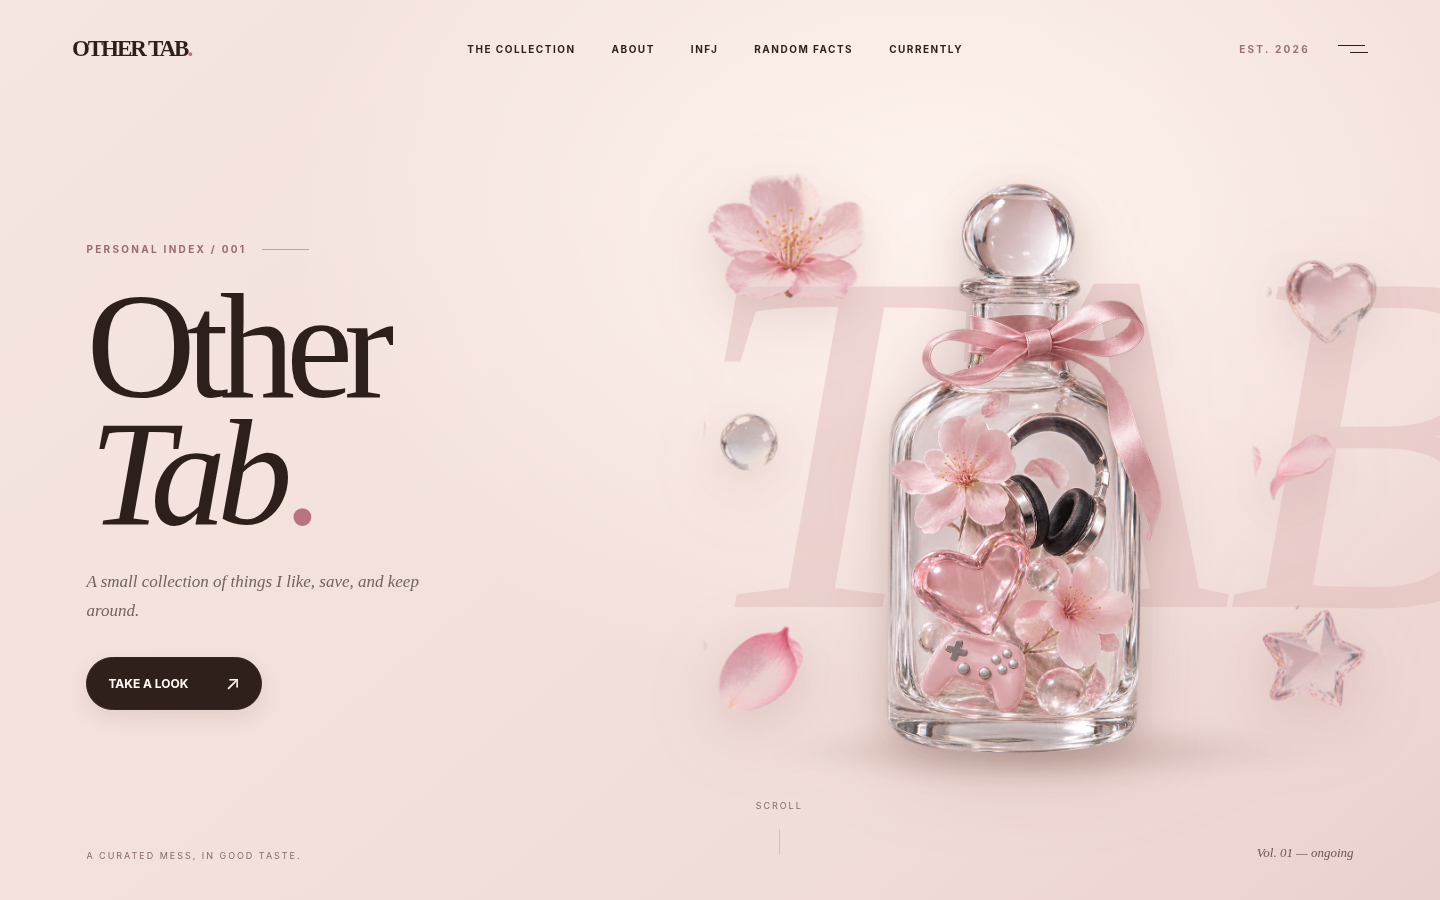
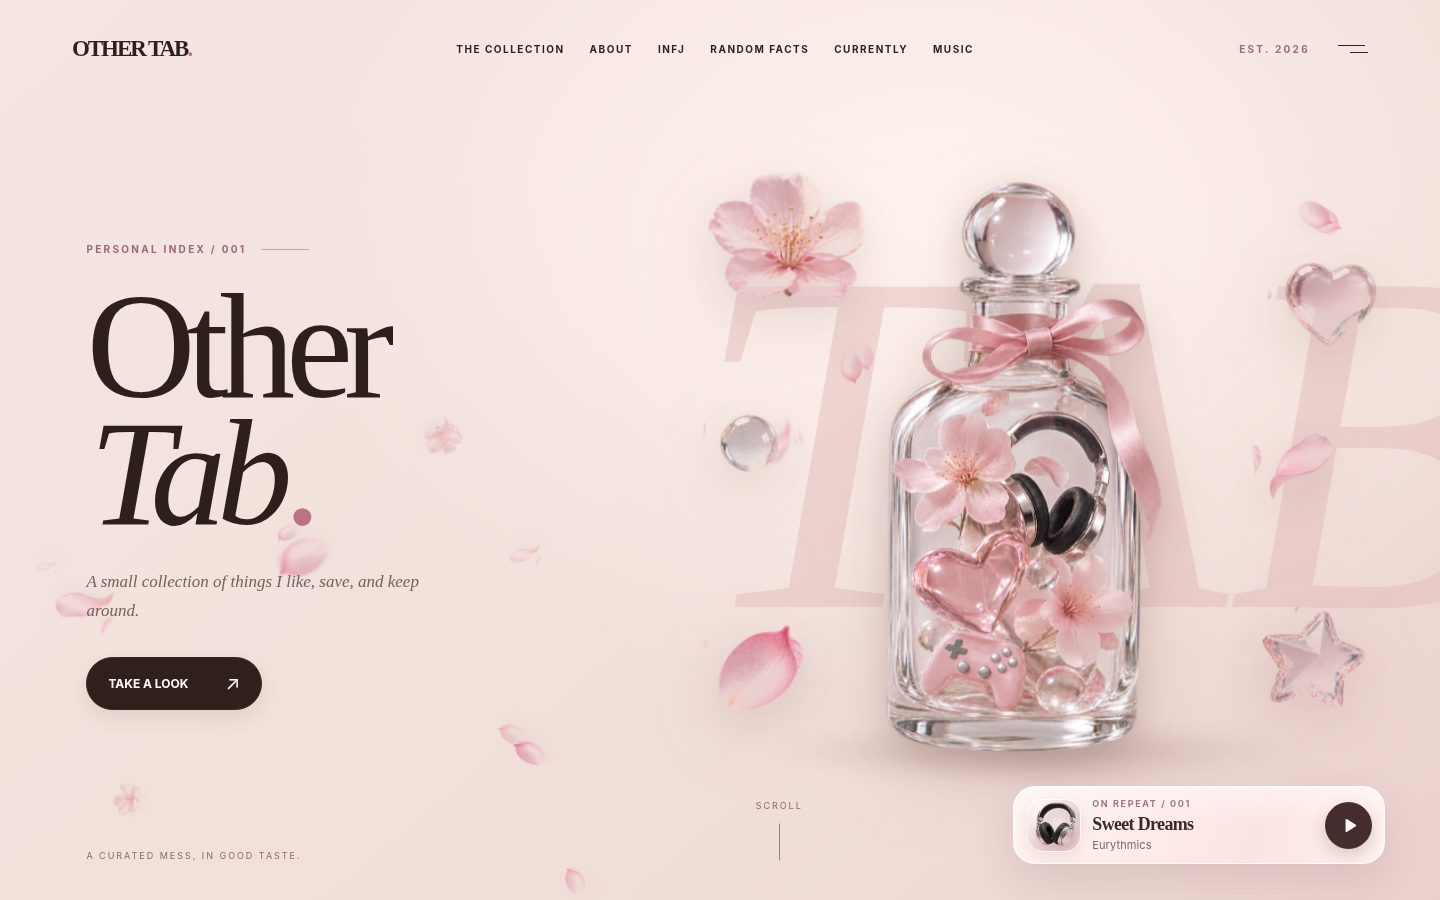
Add files via upload

diff --git a/index.html b/index.html
@@ -196,23 +196,27 @@ footer{background:#f7e5df;border-top:1px solid #ebc8c5}
 @media(max-width:480px){.music-art{height:335px}.music-listen{padding:14px 16px;gap:24px}.music-track h3{font-size:30px}.music-watermark{font-size:19vw}}
 @media(prefers-reduced-motion:reduce){.music-headphone,.music-glass{animation:none!important}}
 
-/* Floating glass music — compact, persistent, and independent of page scroll. */
-.floating-music{position:fixed;right:clamp(18px,3.8vw,60px);bottom:clamp(18px,2.7vw,36px);width:min(372px,calc(100vw - 32px));z-index:1000;color:#3c2829;font-family:inherit;isolation:isolate}
-.fm-strip{position:relative;display:flex;align-items:center;gap:11px;min-height:78px;padding:11px 12px 11px 13px;overflow:hidden;border:1px solid rgba(255,255,255,.85);border-radius:22px;background:linear-gradient(117deg,rgba(255,249,246,.85),rgba(254,234,235,.75) 65%,rgba(255,252,249,.79));-webkit-backdrop-filter:blur(23px) saturate(1.45);backdrop-filter:blur(23px) saturate(1.45);box-shadow:0 14px 40px rgba(95,57,61,.14),inset 0 1px 2px rgba(255,255,255,.92);}
-.fm-strip:before{content:'';pointer-events:none;position:absolute;inset:1px 1px auto 1px;height:43%;border-radius:22px 22px 45% 45%;background:linear-gradient(180deg,rgba(255,255,255,.39),transparent)}
-.fm-thumbnail{width:54px;height:54px;border-radius:16px;flex-shrink:0;position:relative;display:grid;place-items:center;border:1px solid rgba(255,255,255,.7);background:radial-gradient(circle at 26% 20%,#fffaf8,#ead1d2 75%);box-shadow:0 5px 13px #975c6523,inset 0 1px 0 #fff;overflow:hidden}
-.fm-thumbnail img{width:90%;height:90%;object-fit:contain;filter:drop-shadow(3px 5px 4px #81585844)}
-.fm-song{position:relative;min-width:0;flex:1;display:flex;flex-direction:column;gap:3px}
-.fm-kicker{font-size:9px;letter-spacing:.18em;color:#a37682;font-weight:750;line-height:1.4}
+/* Floating glass music — hidden on the very top, then appears after scrolling. */
+.floating-music{position:fixed;right:clamp(18px,3.8vw,60px);bottom:clamp(18px,2.7vw,36px);width:min(386px,calc(100vw - 32px));z-index:1000;color:#3c2829;font-family:inherit;isolation:isolate;opacity:0;transform:translate3d(0,20px,0) scale(.985);pointer-events:none;transition:opacity .34s ease,transform .42s cubic-bezier(.2,.75,.2,1)}
+.floating-music.is-visible{opacity:1;transform:translate3d(0,0,0) scale(1);pointer-events:auto}
+.fm-strip,.fm-panel{position:relative;overflow:hidden}
+.fm-strip{display:flex;align-items:center;gap:11px;min-height:80px;padding:12px 13px 12px 14px;border:1px solid rgba(255,255,255,.7);border-radius:24px;background:linear-gradient(135deg,rgba(255,255,255,.24),rgba(255,240,244,.17) 48%,rgba(255,255,255,.12));-webkit-backdrop-filter:blur(32px) saturate(1.55);backdrop-filter:blur(32px) saturate(1.55);box-shadow:0 18px 45px rgba(102,67,74,.14),inset 0 1px 1px rgba(255,255,255,.78),inset 0 -18px 26px rgba(255,255,255,.06)}
+.fm-strip:before,.fm-panel:before{content:'';pointer-events:none;position:absolute;inset:1px 1px auto 1px;height:46%;border-radius:inherit;background:linear-gradient(180deg,rgba(255,255,255,.55),rgba(255,255,255,.08) 65%,transparent)}
+.fm-strip:after,.fm-panel:after{content:'';pointer-events:none;position:absolute;inset:0;border-radius:inherit;background:radial-gradient(circle at 10% 12%,rgba(255,255,255,.45),transparent 28%),radial-gradient(circle at 88% 85%,rgba(255,220,231,.18),transparent 22%)}
+.fm-thumbnail{width:56px;height:56px;border-radius:17px;flex-shrink:0;position:relative;display:grid;place-items:center;border:1px solid rgba(255,255,255,.62);background:linear-gradient(145deg,rgba(255,255,255,.45),rgba(247,218,227,.18));box-shadow:inset 0 1px 1px rgba(255,255,255,.8),0 8px 18px rgba(128,86,96,.14);overflow:hidden}
+.fm-thumbnail:before{content:'';position:absolute;inset:1px auto auto 2px;width:68%;height:32%;border-radius:16px;background:linear-gradient(180deg,rgba(255,255,255,.8),transparent);filter:blur(1px)}
+.fm-thumbnail img{width:90%;height:90%;object-fit:contain;filter:drop-shadow(3px 5px 4px rgba(129,88,88,.22))}
+.fm-song{position:relative;min-width:0;flex:1;display:flex;flex-direction:column;gap:3px;z-index:1}
+.fm-kicker{font-size:9px;letter-spacing:.18em;color:#9f7386;font-weight:750;line-height:1.4}
 .fm-title{font-family:Georgia,serif;font-size:18px;font-weight:600;line-height:1.15;letter-spacing:-.037em;white-space:nowrap;overflow:hidden;text-overflow:ellipsis}
-.fm-artist{font-size:11px;color:#806a65;letter-spacing:.01em}
-.fm-toggle{position:relative;border:1px solid rgba(117,66,77,.15);border-radius:50%;height:47px;width:47px;flex-shrink:0;display:grid;place-items:center;color:#fff6f5;background:#452c2d;box-shadow:0 6px 16px #5c333837;cursor:pointer;transition:transform .22s ease,background .22s ease,box-shadow .22s ease}
-.fm-toggle:hover{background:#815362;transform:translateY(-2px);box-shadow:0 8px 18px #5c33383d}
+.fm-artist{font-size:11px;color:#7f6a69;letter-spacing:.01em}
+.fm-toggle{position:relative;border:1px solid rgba(255,255,255,.66);border-radius:50%;height:48px;width:48px;flex-shrink:0;display:grid;place-items:center;color:#5c3842;background:linear-gradient(145deg,rgba(255,255,255,.42),rgba(255,232,239,.18));-webkit-backdrop-filter:blur(18px);backdrop-filter:blur(18px);box-shadow:0 10px 24px rgba(104,63,72,.16),inset 0 1px 1px rgba(255,255,255,.78);cursor:pointer;transition:transform .22s ease,box-shadow .22s ease,background .22s ease;z-index:1}
+.fm-toggle:hover{transform:translateY(-2px);box-shadow:0 12px 26px rgba(104,63,72,.2),inset 0 1px 1px rgba(255,255,255,.85);background:linear-gradient(145deg,rgba(255,255,255,.5),rgba(255,238,244,.24))}
 .fm-toggle svg{width:19px;height:19px;fill:currentColor;stroke:none;transform:translateX(1px)}
 .fm-toggle .fm-chevron{display:none;width:21px;height:21px;fill:none;stroke:currentColor;stroke-width:1.9;transform:none}
 .floating-music.is-open .fm-toggle .fm-play{display:none}
 .floating-music.is-open .fm-toggle .fm-chevron{display:block}
-.fm-panel{position:absolute;right:0;bottom:calc(100% + 12px);width:100%;padding:19px 16px 15px;border:1px solid rgba(255,255,255,.92);border-radius:24px;background:linear-gradient(142deg,rgba(255,251,248,.96),rgba(247,228,227,.95));-webkit-backdrop-filter:blur(28px) saturate(1.4);backdrop-filter:blur(28px) saturate(1.4);box-shadow:0 22px 54px #7a54533d,inset 0 1px 0 #fff;animation:fmReveal .25s cubic-bezier(.2,.8,.2,1) both}
+.fm-panel{position:absolute;right:0;bottom:calc(100% + 14px);width:100%;padding:19px 16px 15px;border:1px solid rgba(255,255,255,.78);border-radius:26px;background:linear-gradient(142deg,rgba(255,255,255,.28),rgba(255,239,243,.18));-webkit-backdrop-filter:blur(34px) saturate(1.5);backdrop-filter:blur(34px) saturate(1.5);box-shadow:0 24px 55px rgba(122,84,83,.18),inset 0 1px 1px rgba(255,255,255,.82);animation:fmReveal .25s cubic-bezier(.2,.8,.2,1) both}
 .fm-panel[hidden]{display:none}
 @keyframes fmReveal{from{transform:translateY(10px);opacity:0}to{transform:translateY(0);opacity:1}}
 .fm-panel-head{display:flex;align-items:center;justify-content:space-between;margin-bottom:14px;gap:12px}
@@ -228,7 +232,7 @@ footer{background:#f7e5df;border-top:1px solid #ebc8c5}
 .fm-spotify-link:hover{color:#aa657b}
 .floating-music :is(button,a):focus-visible{outline:2px solid #a66383;outline-offset:3px}
 footer{padding-bottom:max(132px,calc(105px + env(safe-area-inset-bottom, 0px)))}
-@media(max-width:750px){.floating-music{left:12px;right:12px;bottom:calc(12px + env(safe-area-inset-bottom,0px));width:auto}.fm-strip{min-height:70px;padding:9px 10px;gap:10px;border-radius:20px}.fm-thumbnail{height:49px;width:49px;border-radius:13px}.fm-title{font-size:17px}.fm-toggle{height:44px;width:44px}.fm-panel{padding:16px 12px 13px;border-radius:20px}.fm-panel-hint{font-size:9px}.fm-spotify-link{font-size:9px}footer{padding-bottom:132px}}
+@media(max-width:750px){.floating-music{left:12px;right:12px;bottom:calc(12px + env(safe-area-inset-bottom,0px));width:auto}.fm-strip{min-height:72px;padding:9px 10px;gap:10px;border-radius:22px}.fm-thumbnail{height:49px;width:49px;border-radius:14px}.fm-title{font-size:17px}.fm-toggle{height:44px;width:44px}.fm-panel{padding:16px 12px 13px;border-radius:22px}.fm-panel-hint{font-size:9px}.fm-spotify-link{font-size:9px}footer{padding-bottom:132px}}
 @media(max-width:390px){.fm-kicker{font-size:8px}.fm-title{font-size:16px}.fm-thumbnail{width:44px;height:44px}.fm-strip{gap:9px}.fm-toggle{width:42px;height:42px}}
 @media(prefers-reduced-motion:reduce){.fm-panel{animation:none}.fm-toggle{transition:none}}
 
@@ -341,7 +345,16 @@ if(!reduce){let pending=false;addEventListener('scroll',()=>{if(pending)return;p
 // Fixed glass music panel. The official Spotify iframe is created only after user interaction.
 const fmRoot=$('#floatingMusic'),fmPanel=$('#fmPanel'),fmToggle=$('#fmToggle'),fmClose=$('#fmClose'),fmEmbed=$('#fmPlayerEmbed');
 const trackMusic=(name)=>{if(window.umami?.track)window.umami.track(name,{track:'eurythmics_sweet_dreams'})};
+let musicVisible=false;
+const musicThreshold=()=>Math.max(340,Math.round((innerHeight||800)*.55));
+function setMusicVisibility(force){
+  const shouldShow=force===true?true:(window.scrollY||window.pageYOffset||0)>=musicThreshold();
+  if(shouldShow===musicVisible)return;
+  musicVisible=shouldShow;
+  fmRoot.classList.toggle('is-visible',shouldShow);
+}
 function openMusic(){
+  setMusicVisibility(true);
   if(!fmEmbed.firstChild){
     const frame=document.createElement('iframe');
     frame.src='https://open.spotify.com/embed/track/6zIfdCmmhPCX0cMquBsC37?utm_source=generator';
@@ -362,6 +375,9 @@ function closeMusic(){
   fmEmbed.replaceChildren(); // Closing actually stops iframe playback: no ghost audio.
   trackMusic('music_player_close');
 }
+setMusicVisibility(false);
+window.addEventListener('scroll',()=>setMusicVisibility(false),{passive:true});
+window.addEventListener('resize',()=>setMusicVisibility(false));
 fmToggle.addEventListener('click',()=>fmPanel.hidden?openMusic():closeMusic());
 fmClose.addEventListener('click',()=>{closeMusic();fmToggle.focus()});
 document.querySelectorAll('[data-open-music]').forEach(link=>link.addEventListener('click',e=>{
